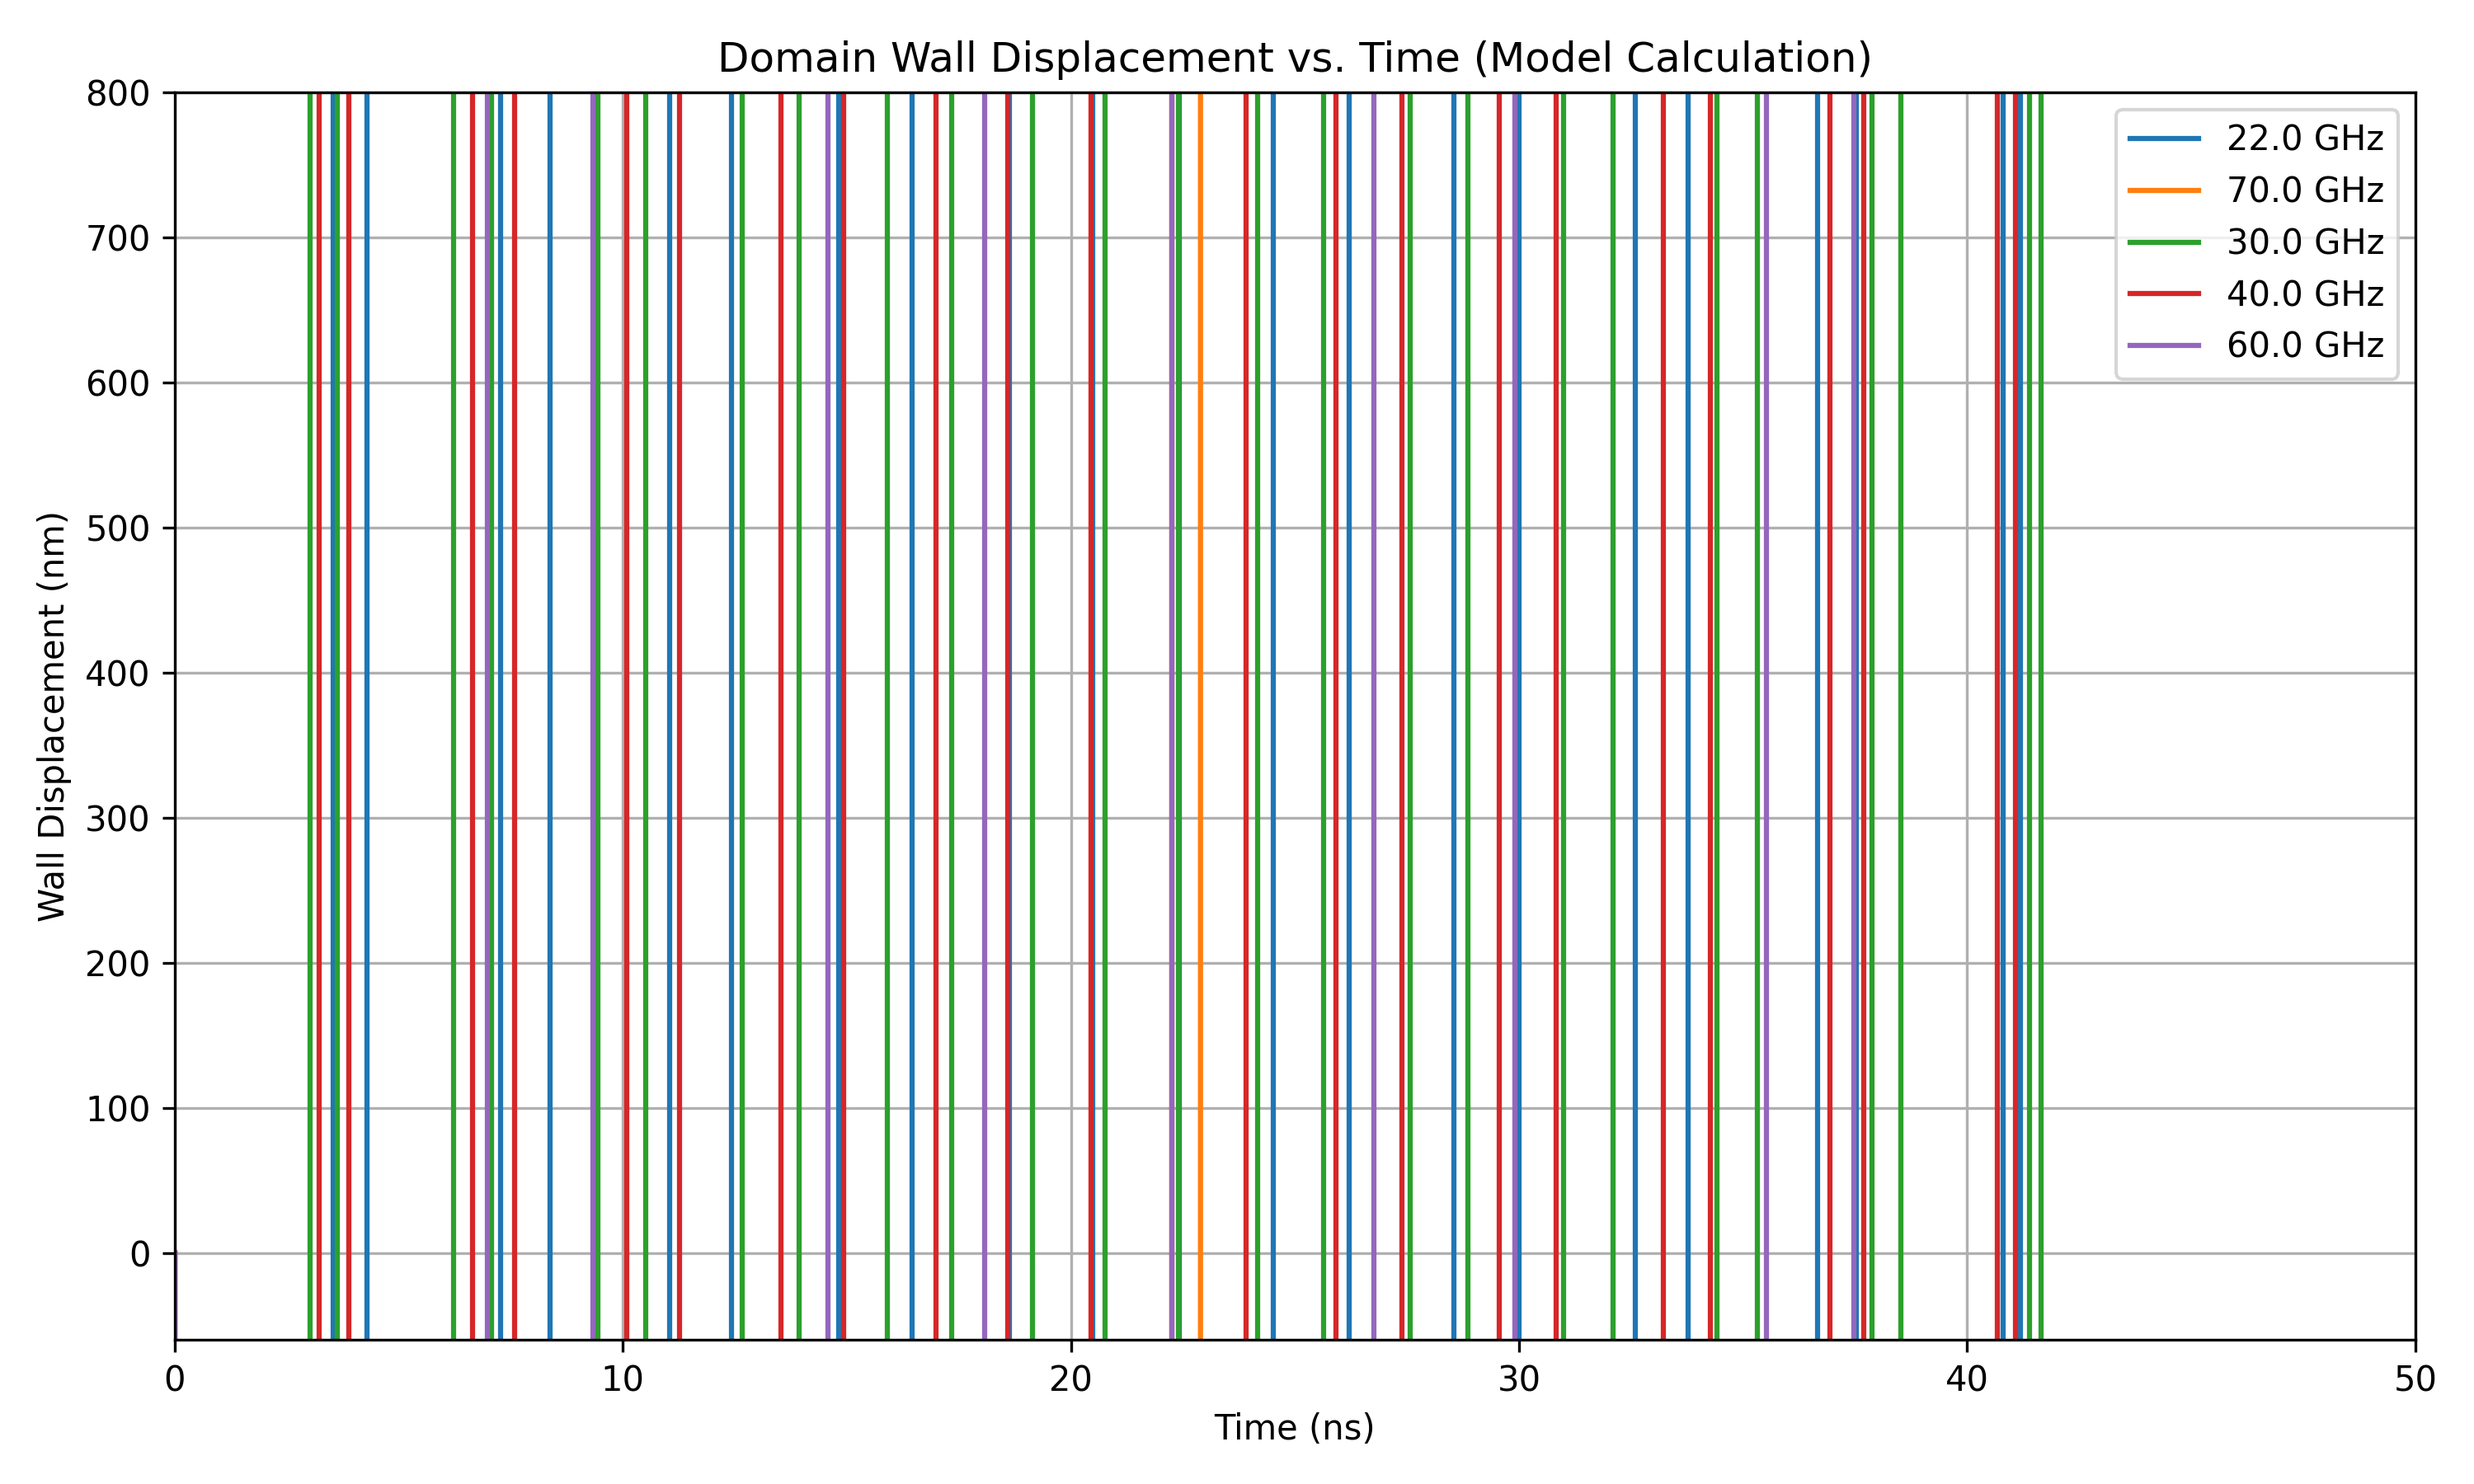
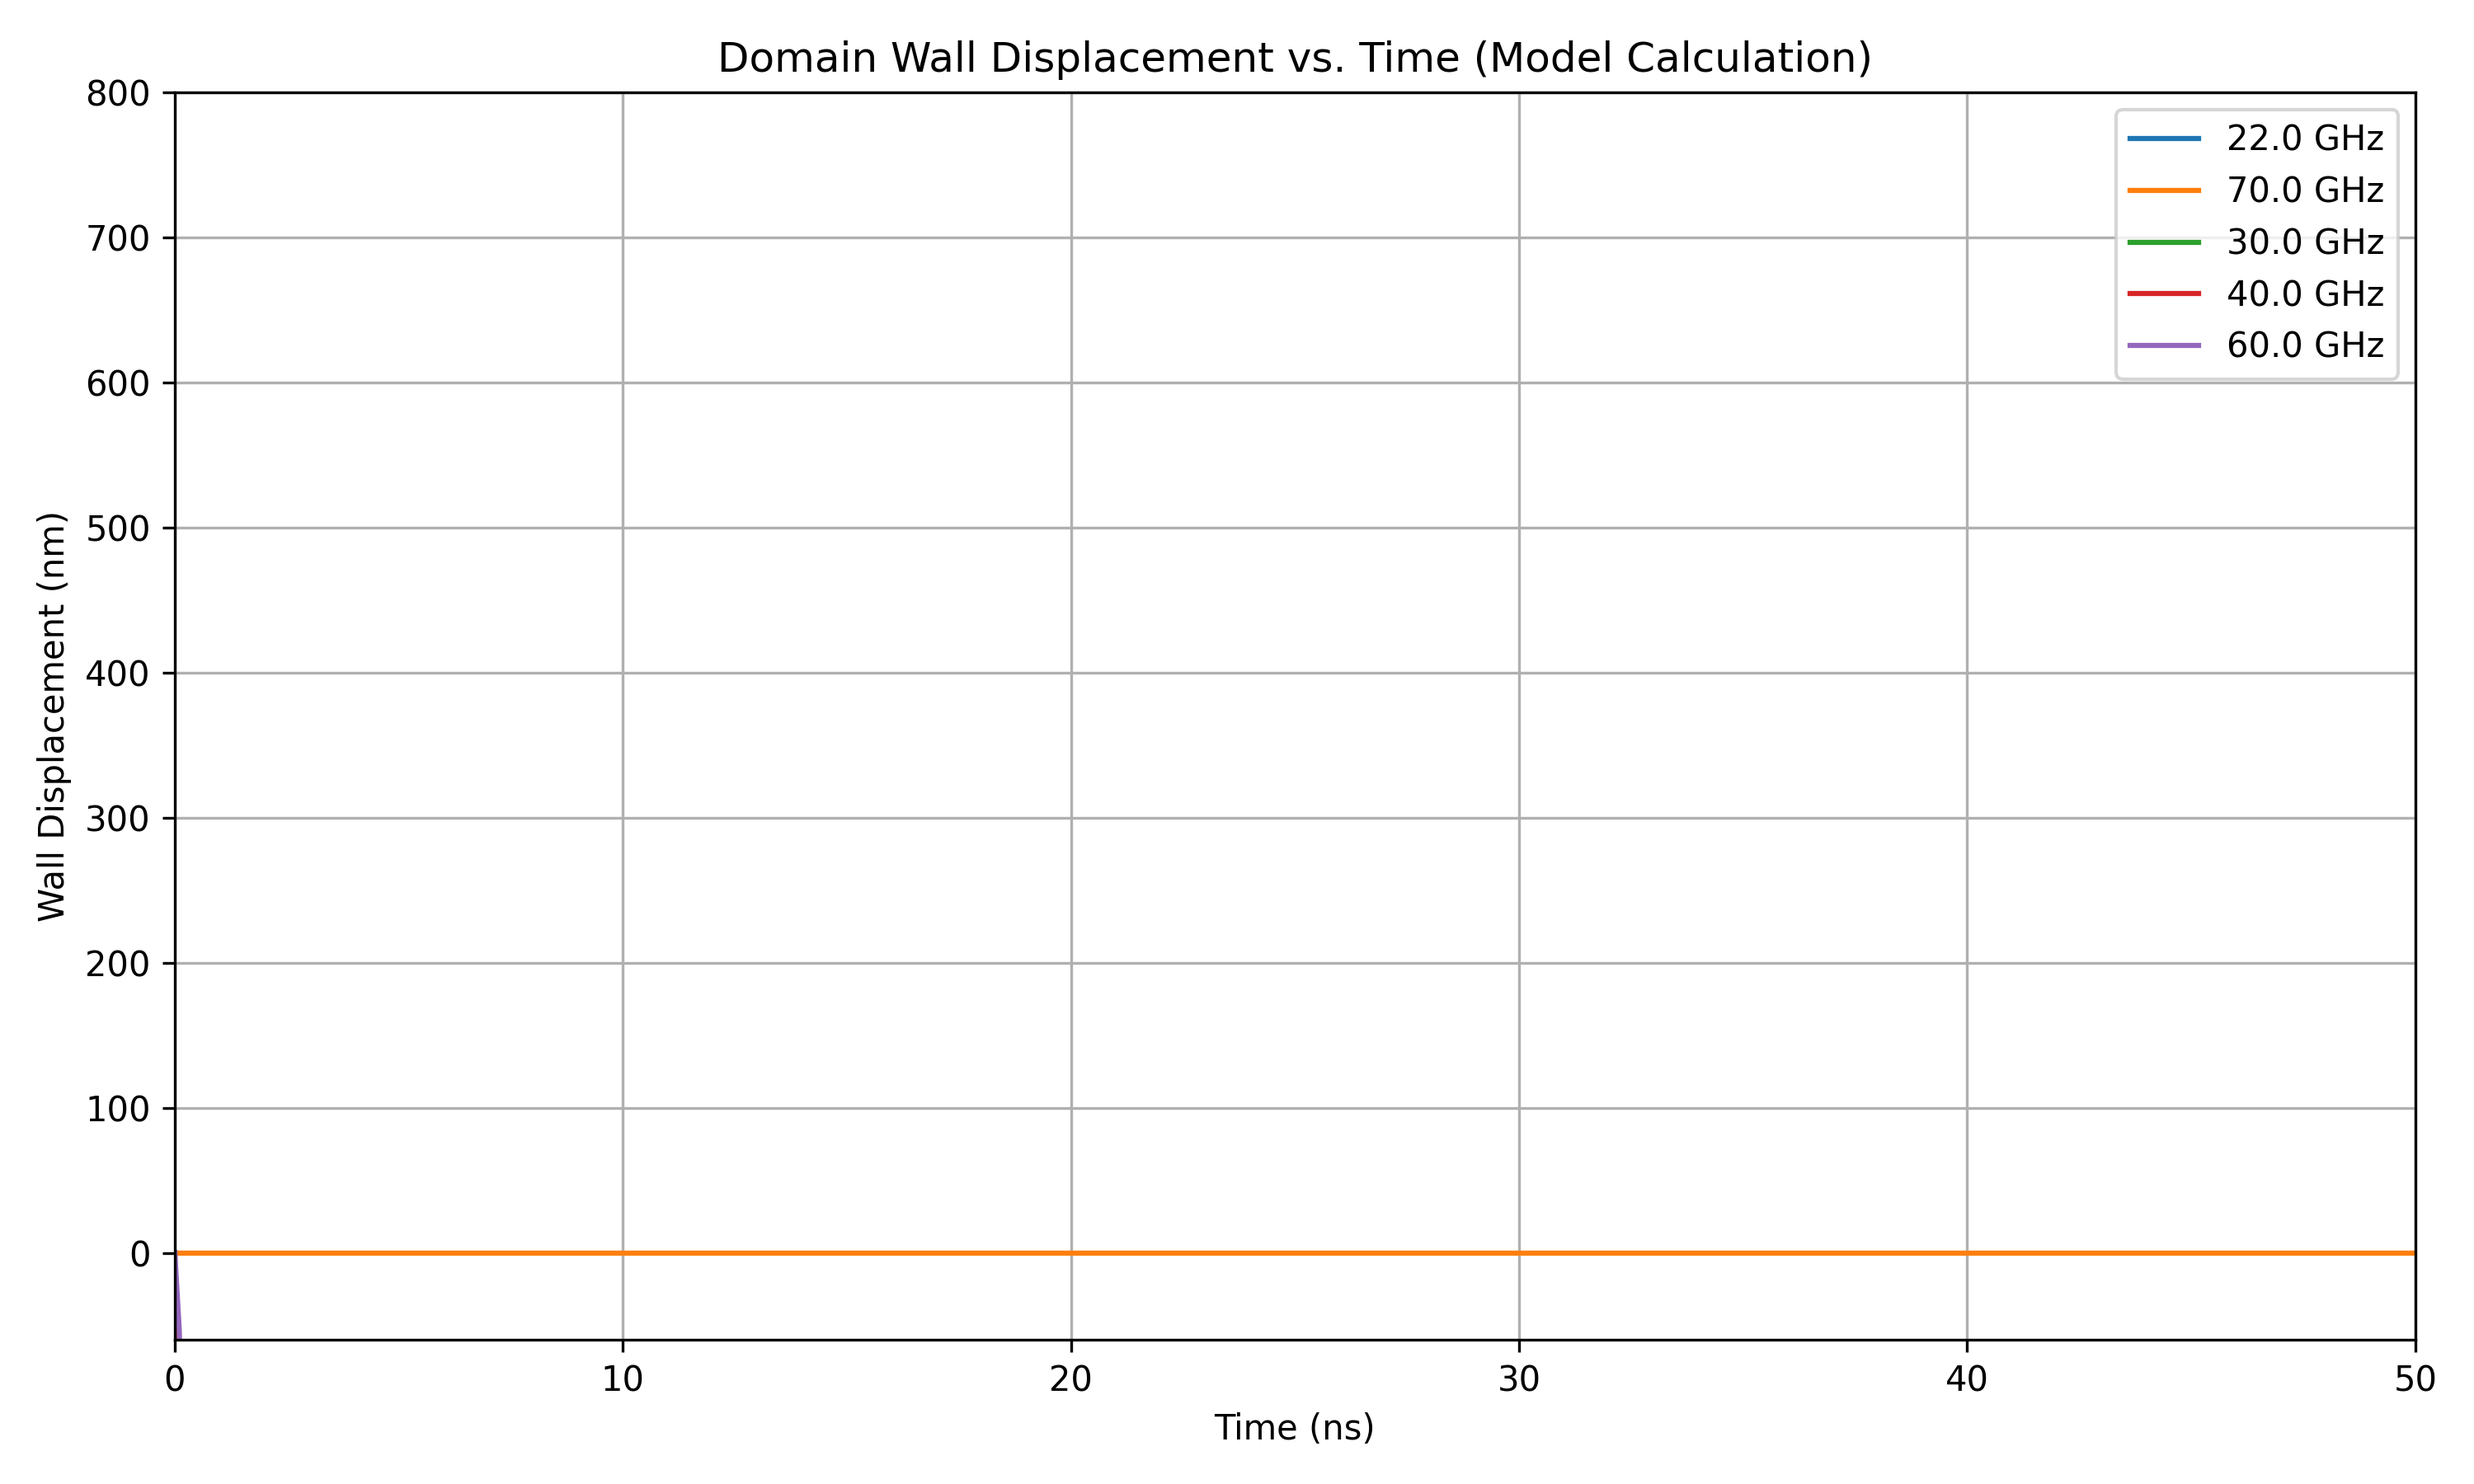
new img

Changed region(s): [[0.062, 0.0622, 0.961, 0.9022]]

diff --git a/snew.py b/snew.py
@@ -46,17 +46,13 @@ def main(frequencies, T_interp, rho_interp):
 
         # Interpolate T from Figure 4
         T = float(T_interp(frequency/1e9))  # T_interp expects frequency in GHz
-        rho = float(rho_interp(frequency/1e9)) #Rho interpolation
+        rho = float(rho_interp(frequency/1e9))
 
         # Estimate vg (Group Velocity) - You might need to calibrate or have a more accurate model
-        vg = 1000  #m/s Base value
-        if frequency > 40e9: #Example effect 
-            vg = 1000 + (frequency - 40e9) * (1000/30e9) #Linear approximation
+        vg = 1000  #m/s
 
         #CALIBRATE U --  This is the most important parameter to calibrate.
-        u = 10 #Base value to start calibration
-        if frequency > 40e9:
-            u = 10 + (frequency -40e9)*(10/30e9) #example
+        u = 0.001 * rho  # Example value -- you MUST calibrate this
 
         k = 2 * np.pi * frequency / vg
 
@@ -86,29 +82,45 @@ def main(frequencies, T_interp, rho_interp):
     plt.savefig('domain_wall_motion_model_frequencies.png', dpi=300)
     plt.show()
 
-# ---------------------- Data Digitization and Interpolation ----------------------
-# **Step 1: Data Digitization**
-# You will need to use a tool (e.g., WebPlotDigitizer, Engauge Digitizer) to extract the data points (frequency, T, rho) from Figure 4.
-# Save the digitized data into CSV files or text files.  For example:
-#   - freq_T_data.csv (two columns: frequency in GHz, Transmission Coefficient T)
-#   - freq_rho_data.csv (two columns: frequency in GHz, Spin Wave Amplitude rho)
-
-# **Step 2: Load Digitized Data**
-freq_T_data = np.array([
-    [20, 0.4], [30, 0.5], [40, 0.65], [50, 0.7], [60, 0.9], [70, 0.98]  # Example Data
+# ---------------------- Data Interpolation ----------------------
+# Load digitized data
+data_figure4 = np.array([
+    [20, 0.40, 1.00],
+    [22, 0.40, 0.98],
+    [24, 0.41, 0.96],
+    [26, 0.42, 0.93],
+    [28, 0.44, 0.90],
+    [30, 0.47, 0.86],
+    [32, 0.50, 0.82],
+    [34, 0.54, 0.78],
+    [36, 0.58, 0.73],
+    [38, 0.62, 0.68],
+    [40, 0.67, 0.63],
+    [42, 0.72, 0.58],
+    [44, 0.77, 0.53],
+    [46, 0.82, 0.48],
+    [48, 0.87, 0.43],
+    [50, 0.92, 0.38],
+    [52, 0.95, 0.33],
+    [54, 0.97, 0.28],
+    [56, 0.98, 0.23],
+    [58, 0.98, 0.18],
+    [60, 0.98, 0.13],
+    [62, 0.98, 0.08],
+    [64, 0.98, 0.03],
+    [66, 0.98, 0.02],
+    [68, 0.98, 0.01],
+    [70, 0.98, 0.00]
 ])
 
-freq_rho_data = np.array([
-    [20, 1.0], [30, 0.8], [40, 0.6], [50, 0.4], [60, 0.3], [70, 0.2]  # Example Data
-])
+# Separate frequency, T, and rho data
+frequency = data_figure4[:, 0]
+T_data = data_figure4[:, 1]
+rho_data = data_figure4[:, 2]
 
-# **Step 3: Create Interpolation Functions**
-#  Ensure frequencies are in increasing order for interpolation
-freq_T_data = freq_T_data[np.argsort(freq_T_data[:, 0])]
-freq_rho_data = freq_rho_data[np.argsort(freq_rho_data[:, 0])]
-
-T_interp = interp1d(freq_T_data[:, 0], freq_T_data[:, 1], kind='linear', fill_value="extrapolate")
-rho_interp = interp1d(freq_rho_data[:, 0], freq_rho_data[:, 1], kind='linear', fill_value="extrapolate")
+# Create interpolation functions
+T_interp = interp1d(frequency, T_data, kind='linear', fill_value="extrapolate")
+rho_interp = interp1d(frequency, rho_data, kind='linear', fill_value="extrapolate")
 
 # Example usage: Specify the frequencies you want to simulate
 frequencies = [22e9, 70e9, 30e9, 40e9, 60e9]  # Example frequencies in Hz
